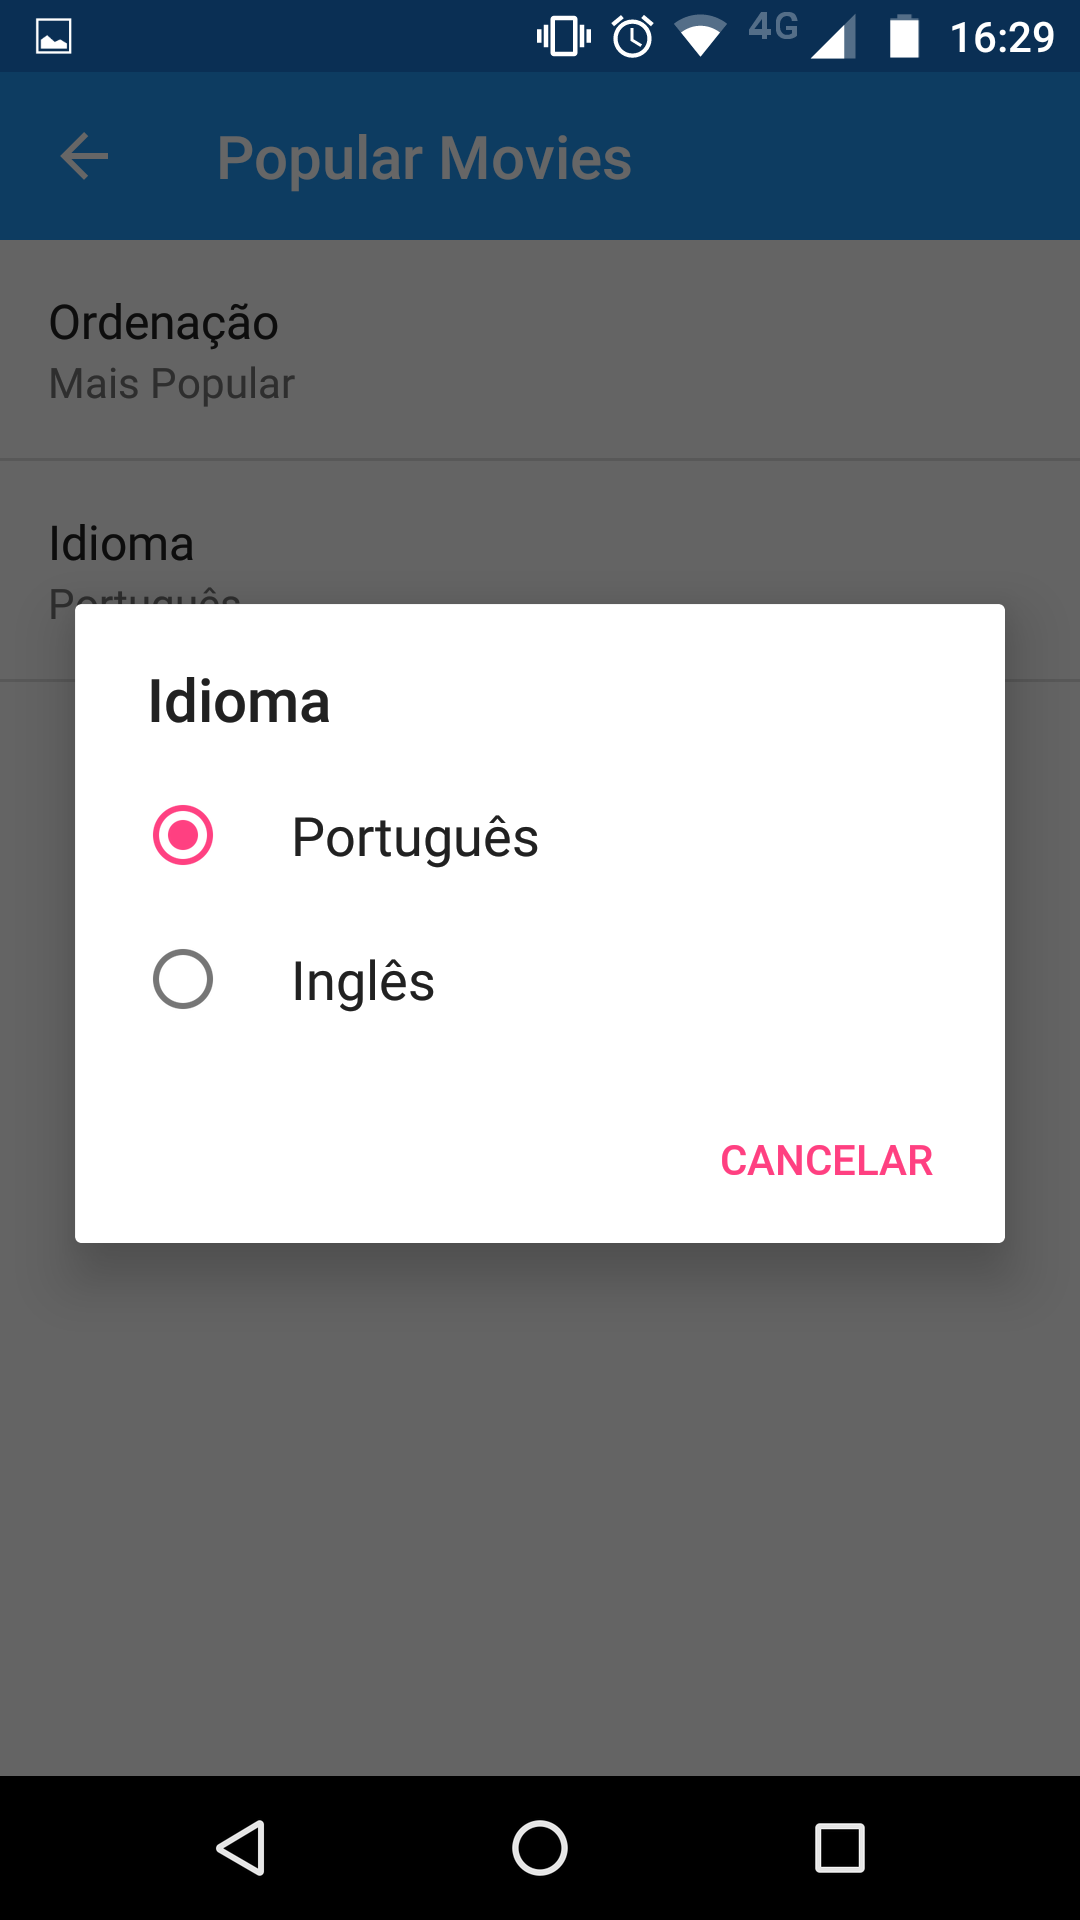
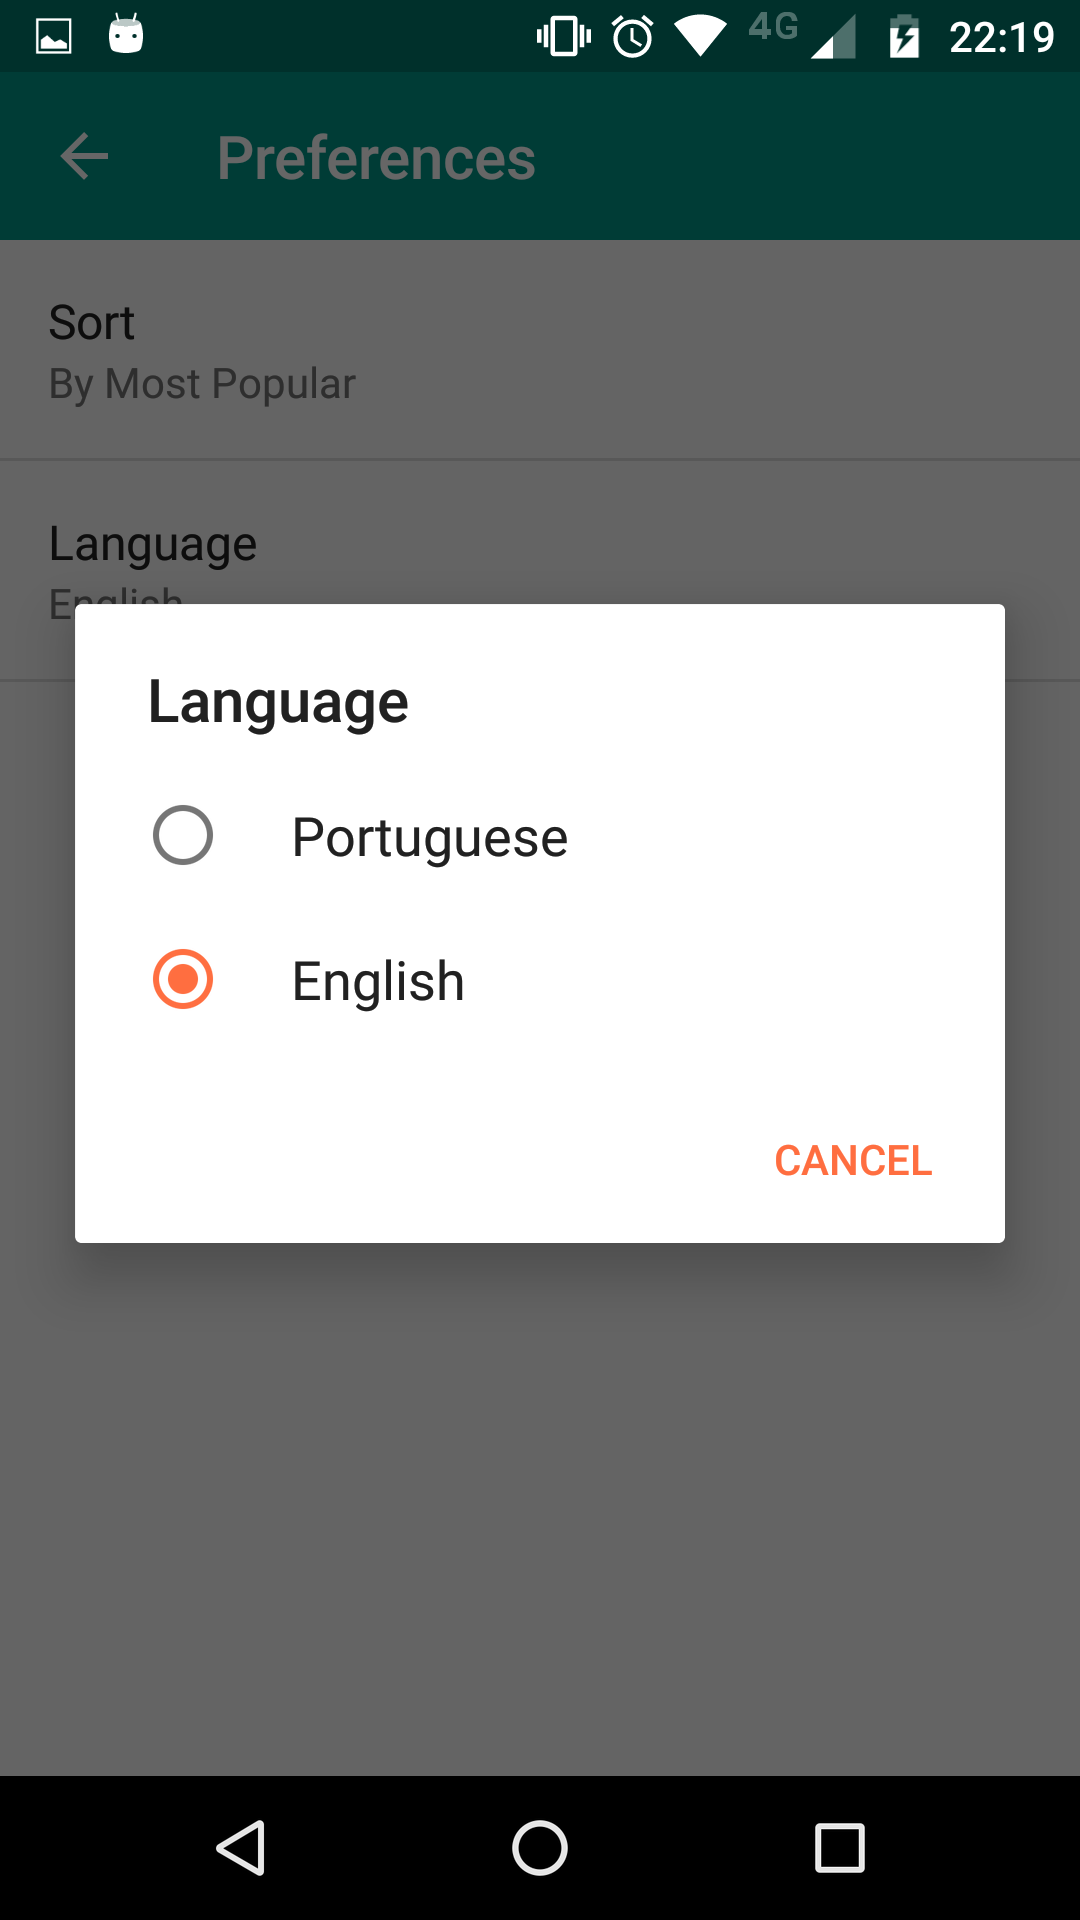
updated colors of app

diff --git a/app/src/main/java/com/udacity/mauricio/popularmovies/gui/view/MovieListFragment.java b/app/src/main/java/com/udacity/mauricio/popularmovies/gui/view/MovieListFragment.java
@@ -1,14 +1,12 @@
 package com.udacity.mauricio.popularmovies.gui.view;
 
-import android.content.Context;
 import android.content.Intent;
 import android.os.Bundle;
-import android.support.annotation.ColorRes;
 import android.support.annotation.Nullable;
+import android.support.design.widget.Snackbar;
 import android.support.v4.app.ActivityCompat;
 import android.support.v4.app.ActivityOptionsCompat;
 import android.support.v4.app.Fragment;
-import android.support.v4.content.ContextCompat;
 import android.support.v4.util.Pair;
 import android.support.v4.widget.SwipeRefreshLayout;
 import android.support.v7.widget.LinearLayoutManager;
@@ -21,8 +19,8 @@ import android.view.MenuInflater;
 import android.view.MenuItem;
 import android.view.View;
 import android.view.ViewGroup;
-import android.widget.ProgressBar;
 import android.widget.TextView;
+import android.widget.Toast;
 
 import com.udacity.mauricio.popularmovies.R;
 import com.udacity.mauricio.popularmovies.gui.adapter.MovieAdapter;
@@ -37,7 +35,9 @@ import java.util.List;
 
 
 public class MovieListFragment extends Fragment
-        implements LoadMovieTask.LoadMovieListener, View.OnClickListener, SwipeRefreshLayout.OnRefreshListener {
+        implements LoadMovieTask.LoadMovieListener,
+        View.OnClickListener,
+        SwipeRefreshLayout.OnRefreshListener {
 
     protected RecyclerView rvMovies;
     protected TextView tvMessage;
@@ -49,8 +49,7 @@ public class MovieListFragment extends Fragment
     protected MovieAdapter adapter;
     protected LoadMovieTask task;
 
-    protected boolean isSync;
-    private int currentPage;
+    private PageDTO currentPage;
     private String sort, language;
 
     private BaseActivity activity;
@@ -93,12 +92,16 @@ public class MovieListFragment extends Fragment
             public void onLoadMore(int page, int totalItemsCount, RecyclerView view) {
                 // Triggered only when new data needs to be appended to the list
                 // Add whatever code is needed to append new items to the bottom of the list
-                task = new LoadMovieTask(activity, MovieListFragment.this);
-                List<String> params = new ArrayList<>();
-                params.add(LoadMovieTask.LANGUAGE_PARAM_POSITION, language);
-                params.add(LoadMovieTask.SORT_PARAM_POSITION, sort);
-                params.add(LoadMovieTask.PAGE_PARAM_POSITION, String.valueOf(page + 1));
-                task.execute(params.toArray(new String[LoadMovieTask.PARAM_NUMBER]));
+                if (currentPage.page < page) {
+                    task = new LoadMovieTask(activity, MovieListFragment.this);
+                    List<String> params = new ArrayList<>();
+                    params.add(LoadMovieTask.LANGUAGE_PARAM_POSITION, language);
+                    params.add(LoadMovieTask.SORT_PARAM_POSITION, sort);
+                    params.add(LoadMovieTask.PAGE_PARAM_POSITION, String.valueOf(page + 1));
+                    task.execute(params.toArray(new String[LoadMovieTask.PARAM_NUMBER]));
+                } else {
+                    Snackbar.make(rvMovies, R.string.msg_has_no_more_data, Snackbar.LENGTH_SHORT).show();
+                }
             }
         };
 
@@ -112,7 +115,7 @@ public class MovieListFragment extends Fragment
     public void onResume() {
         super.onResume();
 
-        if (!AppUtils.hasInternetConnection(getContext()) && !isSync) {
+        if (!AppUtils.hasInternetConnection(getContext()) && adapter.getItemCount() == 0) {
             showMessage();
             return;
         }
@@ -171,9 +174,7 @@ public class MovieListFragment extends Fragment
 
         task = new LoadMovieTask(getContext(), this);
         task.execute(params.toArray(new String[LoadMovieTask.PARAM_NUMBER]));
-        isSync = true;
     }
-
 
     private void showMessage() {
         rvMovies.setVisibility(View.GONE);
@@ -190,14 +191,14 @@ public class MovieListFragment extends Fragment
 
         boolean hasNoMoreMovies = page == null || page.movies == null || page.movies.isEmpty();
 
-        if (hasNoMoreMovies && currentPage == 0) {
+        if (hasNoMoreMovies && currentPage == null) {
             showMessage();
             return;
         }
 
-        adapter.setMovies(page.movies);
+        currentPage = page;
 
-        currentPage = page.page;
+        adapter.setMovies(currentPage.movies);
 
         swRefresh.setRefreshing(false);
     }

diff --git a/app/src/main/java/com/udacity/mauricio/popularmovies/utils/AppUtils.java b/app/src/main/java/com/udacity/mauricio/popularmovies/utils/AppUtils.java
@@ -15,7 +15,6 @@ import java.util.Locale;
 /**
  * Created by mauricio-MTM on 12/6/2016.
  */
-
 public final class AppUtils {
 
     public static boolean hasInternetConnection(Context context) {
@@ -34,21 +33,12 @@ public final class AppUtils {
     }
 
     public static void setLocale(Context context, String lang) {
-
         Locale myLocale = new Locale(lang);
         Resources res = context.getResources();
         DisplayMetrics dm = res.getDisplayMetrics();
         Configuration conf = res.getConfiguration();
         conf.locale = myLocale;
         res.updateConfiguration(conf, dm);
-        /*
-        Locale locale = new Locale(lang);
-        Locale.setDefault(locale);
-        Configuration config = new Configuration();
-        config.locale = locale;
-        context.getResources().updateConfiguration(config,
-                context.getResources().getDisplayMetrics());
-                */
     }
 
     public static String getPreferenceValue(Context context, String key, String defaultValue) {

diff --git a/app/src/main/java/com/udacity/mauricio/popularmovies/tasks/LoadMovieTask.java b/app/src/main/java/com/udacity/mauricio/popularmovies/tasks/LoadMovieTask.java
@@ -20,7 +20,6 @@ import java.security.InvalidParameterException;
 /**
  * Created by mauricio-MTM on 12/6/2016.
  */
-
 public class LoadMovieTask extends AsyncTask<String, Void, PageDTO> {
 
     private static final String LOG_TAG = LoadMovieTask.class.getSimpleName();
@@ -55,7 +54,7 @@ public class LoadMovieTask extends AsyncTask<String, Void, PageDTO> {
         PageDTO result = null;
 
         if (params.length < PARAM_NUMBER)
-            throw new InvalidParameterException("This task must be executed with 3 parameters: language, sortBy and page number.");
+            throw new InvalidParameterException("This task must be executed with " + PARAM_NUMBER + " parameters: language, sortBy and page number.");
 
         String language = params[LANGUAGE_PARAM_POSITION];
         String sortBy = params[SORT_PARAM_POSITION];

diff --git a/app/src/main/java/com/udacity/mauricio/popularmovies/gui/view/BaseActivity.java b/app/src/main/java/com/udacity/mauricio/popularmovies/gui/view/BaseActivity.java
@@ -18,8 +18,7 @@ public abstract class BaseActivity extends AppCompatActivity {
     protected void onCreate(@Nullable Bundle savedInstanceState) {
         super.onCreate(savedInstanceState);
         String language = AppUtils.getPreferenceValue(this, getString(R.string.pref_language_key), getString(R.string.pref_language_default_value));
-        language = language.substring(0, 2);
-        AppUtils.setLocale(this, language);
+        AppUtils.setLocale(this, language.substring(0, 2));
     }
 
     protected void restart() {

diff --git a/app/src/main/java/com/udacity/mauricio/popularmovies/gui/view/MovieSettingsFragment.java b/app/src/main/java/com/udacity/mauricio/popularmovies/gui/view/MovieSettingsFragment.java
@@ -10,9 +10,6 @@ import android.text.TextUtils;
 import com.udacity.mauricio.popularmovies.R;
 import com.udacity.mauricio.popularmovies.utils.AppUtils;
 
-/**
- *
- */
 public class MovieSettingsFragment extends PreferenceFragment implements Preference.OnPreferenceChangeListener {
 
     private boolean starting;

diff --git a/app/src/main/java/com/udacity/mauricio/popularmovies/models/MovieDTO.java b/app/src/main/java/com/udacity/mauricio/popularmovies/models/MovieDTO.java
@@ -22,10 +22,6 @@ public class MovieDTO implements Serializable {
     @Expose
     public String originalTitle;
 
-    @SerializedName("original_language")
-    @Expose
-    public String originalLanguage;
-
     @SerializedName("popularity")
     @Expose
     public Double popularity;

diff --git a/app/src/main/java/com/udacity/mauricio/popularmovies/gui/adapter/MovieAdapter.java b/app/src/main/java/com/udacity/mauricio/popularmovies/gui/adapter/MovieAdapter.java
@@ -70,7 +70,6 @@ public class MovieAdapter extends RecyclerView.Adapter<MovieAdapter.MovieViewHol
     }
 
     static class MovieViewHolder extends RecyclerView.ViewHolder {
-
         ImageView poster;
         TextView title;
         TextView overview;

diff --git a/app/src/main/java/com/udacity/mauricio/popularmovies/gui/view/MainActivity.java b/app/src/main/java/com/udacity/mauricio/popularmovies/gui/view/MainActivity.java
@@ -1,7 +1,6 @@
 package com.udacity.mauricio.popularmovies.gui.view;
 
 import android.os.Bundle;
-import android.support.v7.app.AppCompatActivity;
 
 import com.udacity.mauricio.popularmovies.R;
 

diff --git a/app/src/main/java/com/udacity/mauricio/popularmovies/gui/view/DetailActivity.java b/app/src/main/java/com/udacity/mauricio/popularmovies/gui/view/DetailActivity.java
@@ -1,6 +1,5 @@
 package com.udacity.mauricio.popularmovies.gui.view;
 
-import android.support.v7.app.AppCompatActivity;
 import android.os.Bundle;
 import android.view.MenuItem;
 

diff --git a/README.md b/README.md
@@ -1,6 +1,6 @@
 #RepoMovies app
 
-## Synopsis
+## Overview
 
 RepoMovies project is an android app to allow users to discover the most popular movies playing. This project is part of Android Developer Nanodegree course. The app retrieves and shows movies information from The Movie Database - TMDB (https://www.themoviedb.org). The app is localized both in Brazilian Portuguese and English.
 
@@ -10,10 +10,10 @@ To use this app please obtain an API Key from TMDB and place it within "api_key"
 
 ##Screenshots
 
-<br><img src="/screenshots/MainScreen.png" width="480">
+<br><img src="/screenshots/MainScreen.png" width="480" height="820">
 
-<br><img src="/screenshots/DetailScreen.png" width="480">
+<br><img src="/screenshots/DetailScreen.png" width="480" height="820">
 
-<br><img src="/screenshots/ColapsedDetailScreen.png" width="480">
+<br><img src="/screenshots/ColapsedDetailScreen.png" width="480" height="820">
 
-<br><img src="/screenshots/PreferenceScreen.png" width="480">
+<br><img src="/screenshots/PreferenceScreen.png" width="480" height="820">
